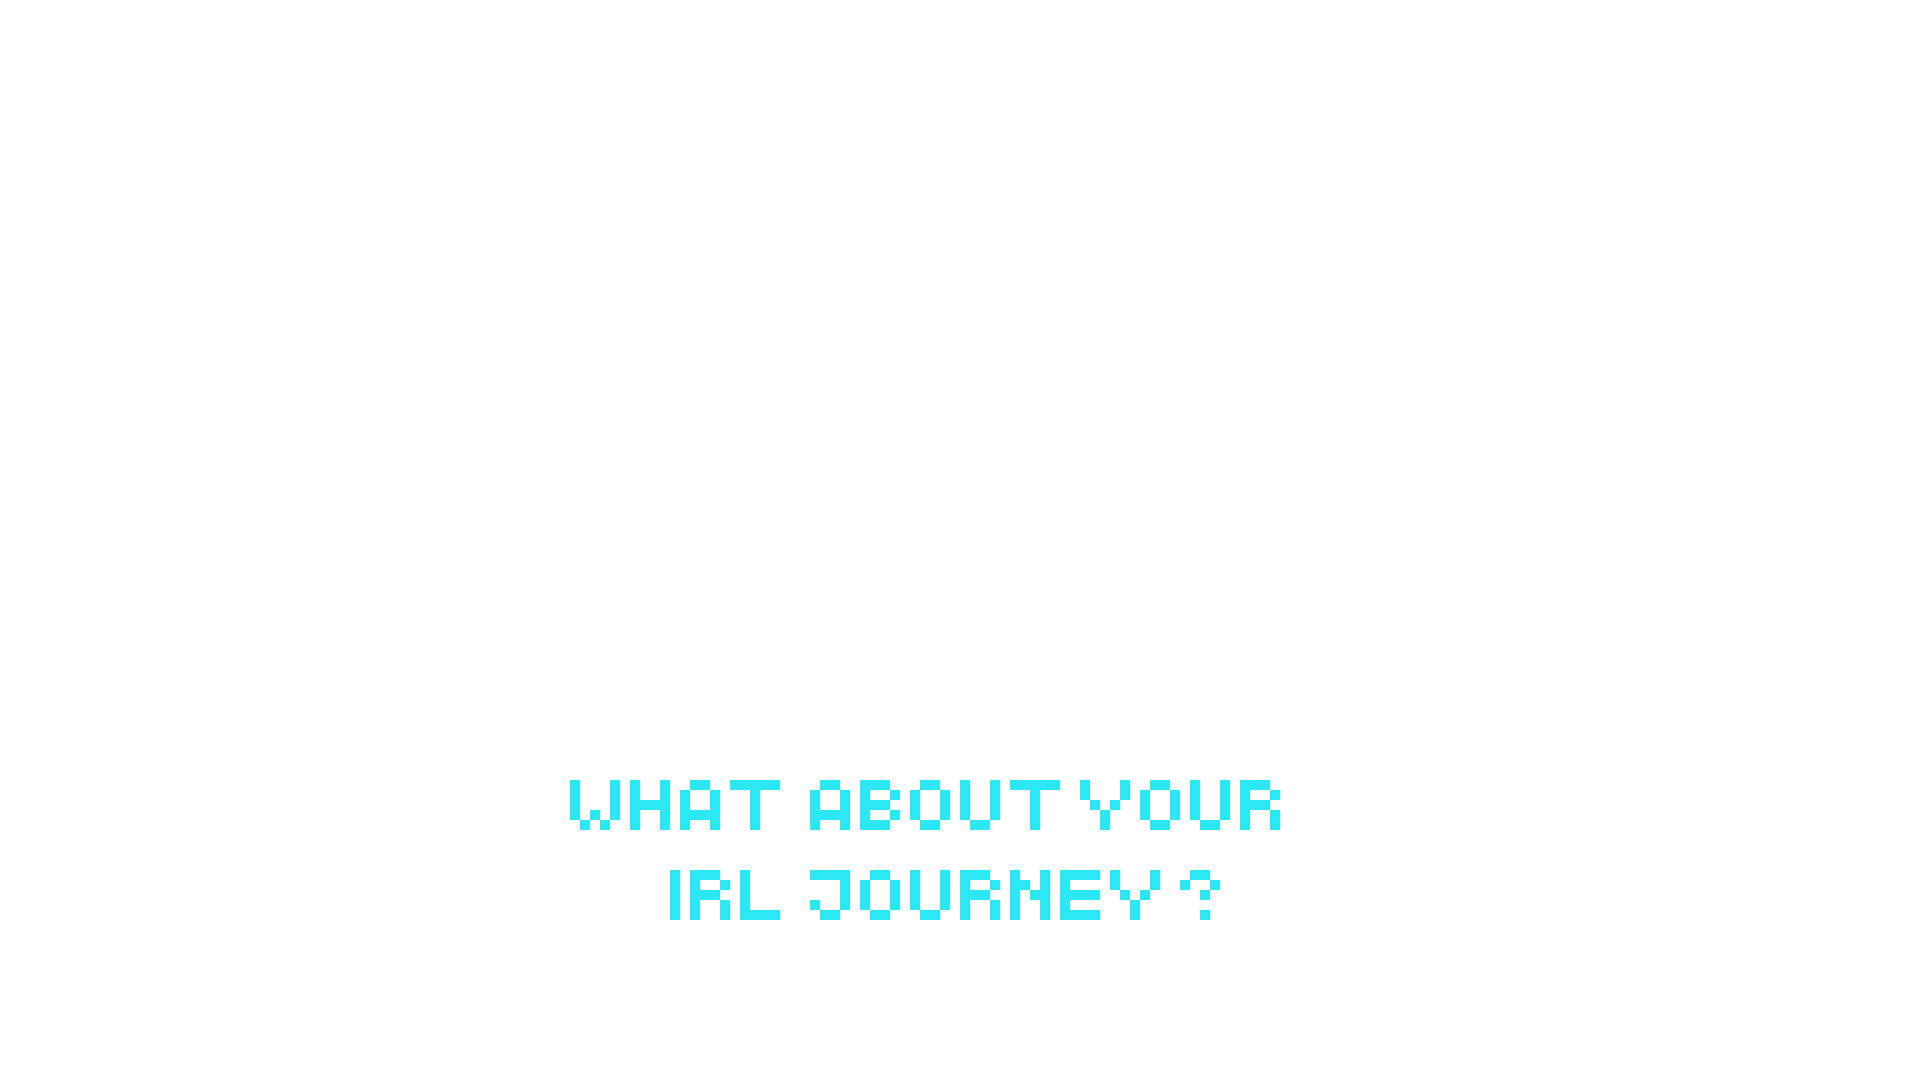
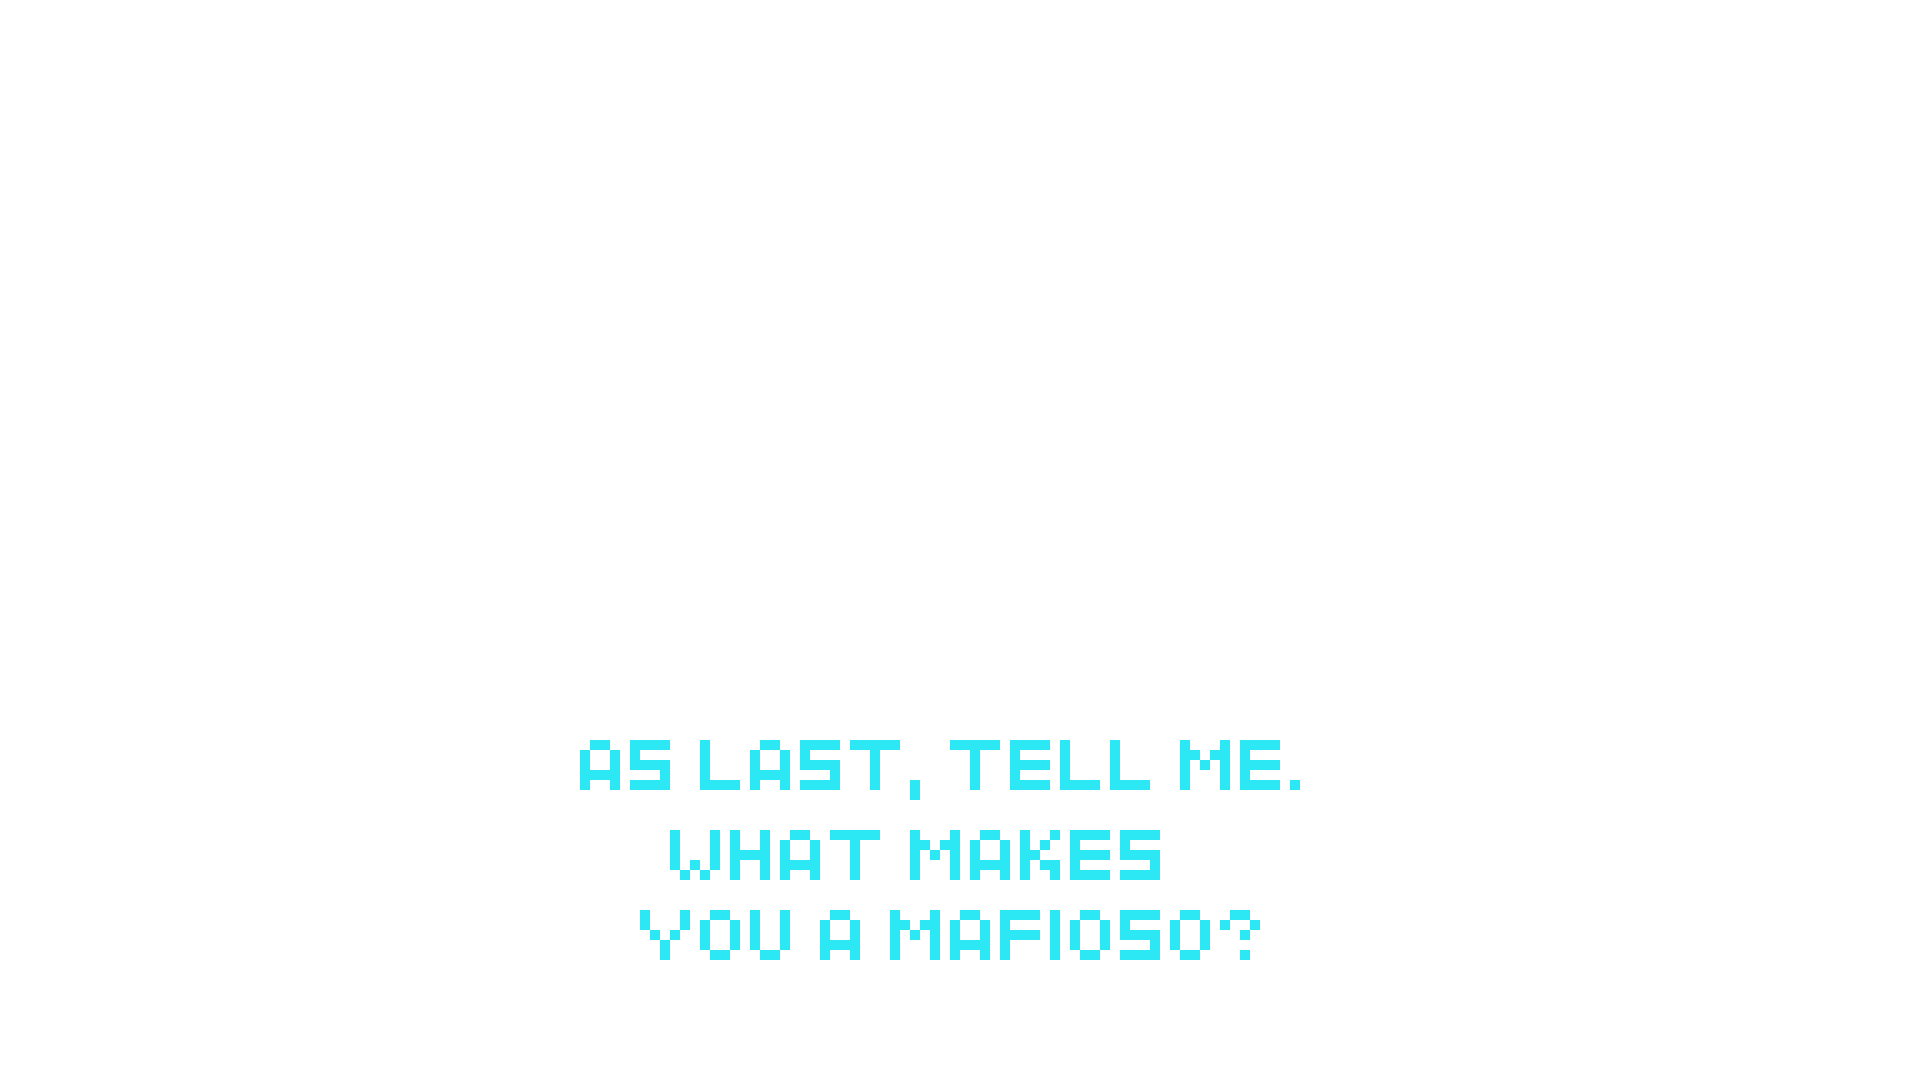
INIT: update files

Changed region(s): [[0.2812, 0.6722, 0.6875, 0.8861]]

diff --git a/src/App.js b/src/App.js
@@ -20,10 +20,6 @@ import message11 from './img/text-11.png';
 import message12 from './img/text-12.png';
 import message13 from './img/text-13.png';
 import message14 from './img/text-14.png';
-import message15 from './img/text-15.png';
-import message16 from './img/text-16.png';
-import message17 from './img/text-17.png';
-import message18 from './img/text-18.png';
 
 function App() {
   const [currentMessage, setCurrentMessage] = useState(1);
@@ -48,7 +44,7 @@ function App() {
     // check if audio is playing
     click.play();
     if (currentMessage === 1) audio.play();
-    if (currentMessage >= 7 && currentMessage <= 13) {
+    if (currentMessage >= 7 && currentMessage <= 12) {
       // focus
       document.getElementById('inputBox').focus();
       const inputVal = document.getElementById('inputBox').value;
@@ -63,31 +59,30 @@ function App() {
   const showNextMessage = () => {
     document.getElementById(`msg${currentMessage - 1 }`).classList.add('hidden');
     document.getElementById(`msg${currentMessage}`).classList.remove('hidden');
-    if (currentMessage >= 6 && currentMessage <= 14) {
+    if (currentMessage >= 6 && currentMessage <= 12) {
       // document.getElementById('contBtn').classList.add('disable');
       // document.getElementById('contBtn').classList.remove('animate-flicker');
       const inputVal = document.getElementById('inputBox').value;
-      setInputForm(inputForm => [...inputForm, inputVal.replace(/[^a-zA-Z0-9 @-]/g, '')]);
+      setInputForm((inputForm) => [...inputForm, inputVal.replace(/[^a-zA-Z0-9 @-]/g, '')]);
       document.getElementById('inputBox').value = '';
-    } else if (currentMessage === 17) {
-      document.getElementById('capo').classList.add('fade-out');
-      document.getElementById('init').classList.add('fade-out');
-      console.log(inputForm);
-      // window.location.href = 'https://www.google.com';
+    } else if (currentMessage === 13) {
       fetch('https://glmwjmund2.execute-api.us-east-1.amazonaws.com/submission', {
         method: 'PUT',
         headers: {
           'Content-Type': 'application/json',
-          'Authorization': `Bearer ${makeid(32)}`
+          Authorization: `Bearer ${makeid(32)}`,
         },
-        body: JSON.stringify({data: inputForm})
+        body: JSON.stringify({ data: inputForm }),
       });
+    } else if (currentMessage === 14) {
+      document.getElementById('capo').classList.add('fade-out');
+      document.getElementById('init').classList.add('fade-out');
     }
   }
 
   const handleKeydown = (e) => {
     // check key if value is more than 3
-    if (e.target.value.length > 3) {
+    if (e.target.value.length >= 3) {
       if (e.key === 'Enter') {
         continueBtn();
       } 
@@ -130,10 +125,6 @@ function App() {
       <img id='msg12' src={message12} alt='' className='overlay hidden' />
       <img id='msg13' src={message13} alt='' className='overlay hidden' />
       <img id='msg14' src={message14} alt='' className='overlay hidden' />
-      <img id='msg15' src={message15} alt='' className='overlay hidden' />
-      <img id='msg16' src={message16} alt='' className='overlay hidden' />
-      <img id='msg17' src={message17} alt='' className='overlay hidden' />
-      <img id='msg17' src={message18} alt='' className='overlay hidden' />
 
       <img
         src={null}
@@ -146,13 +137,13 @@ function App() {
         src={textBoxHandlerInput}
         id='inputBoxBg'
         alt=''
-        className={`overlay-flip input-box  ${currentMessage > 6 && currentMessage <= 14 ? 'show' : 'hidden'}`}
+        className={`overlay-flip input-box  ${currentMessage > 6 && currentMessage <= 12 ? 'show' : 'hidden'}`}
       />
       <input
         type='text'
         id='inputBox'
         name='inputBox'
-        className={`input-overlay ${currentMessage > 6 && currentMessage <= 14 ? 'show' : 'hidden'}`}
+        className={`input-overlay ${currentMessage > 6 && currentMessage <= 12? 'show' : 'hidden'}`}
         placeholder='Enter Here'
         onKeyDown={handleKeydown}
       ></input>
